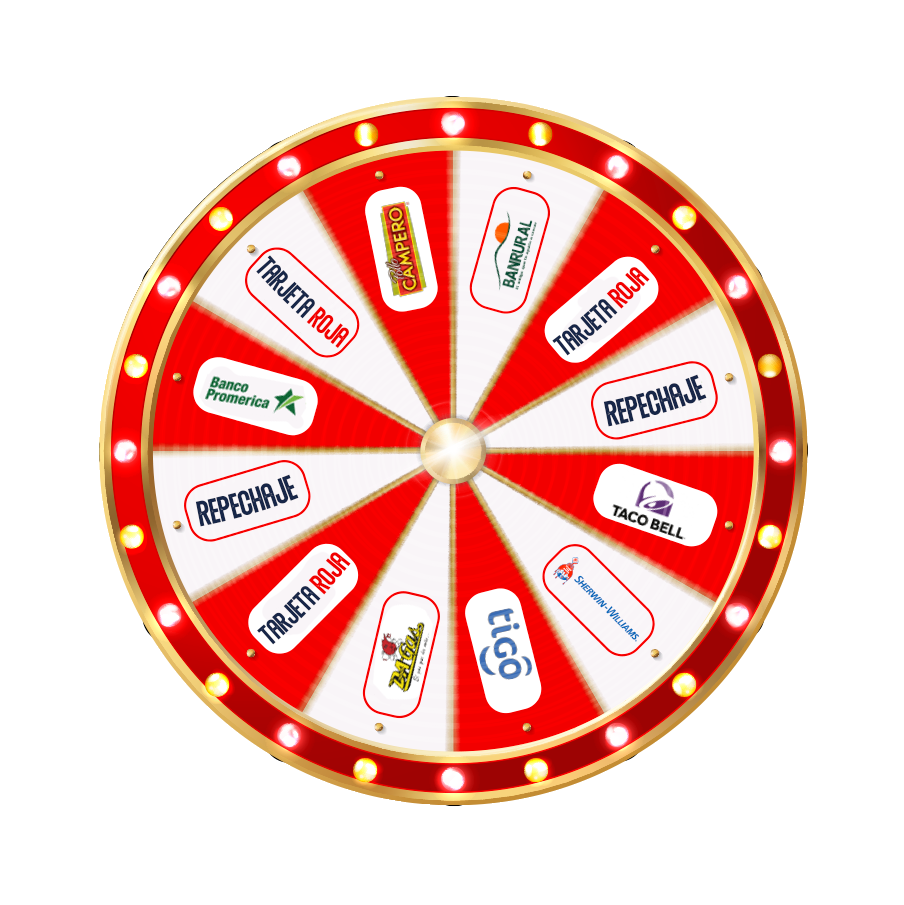
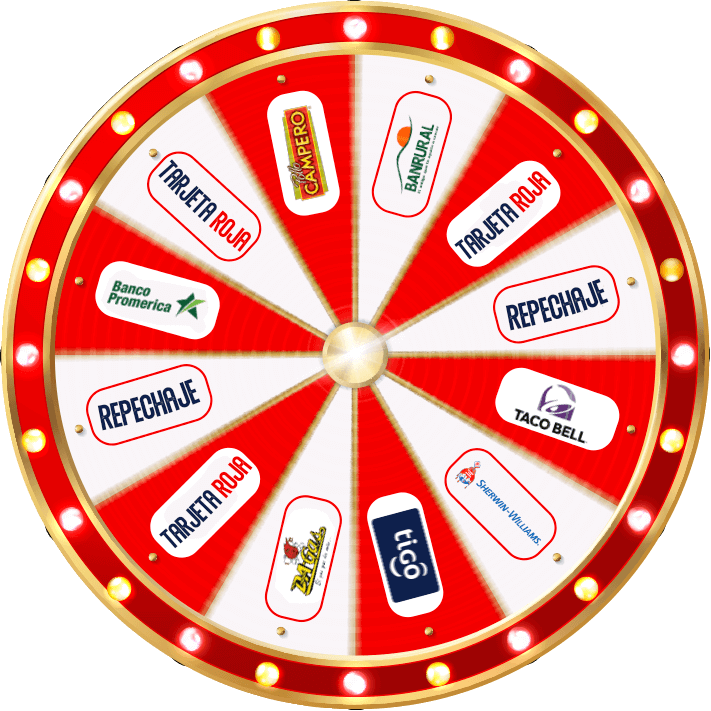
:hammer: added new rulete

diff --git a/src/app/components/home/home.component.html b/src/app/components/home/home.component.html
@@ -1,30 +1,30 @@
 <section class="content">
-    <div class="row ps-20 a-center j-center">
-        <div class="logo-section a-center">
-            <div class="logo-promo">
-                <img src="../../../assets/images/logo-login.png" alt="">
-            </div>
-            <a [routerLink]="['/registro']" class="btn-1"> Regístrate</a>
-        </div>
-        <div class="ruleta-premios">
-            <div class="ruleta-glow">
-                <img class="ruleta-home" src="../../../assets/images/ruleta-login.png" alt="">
-                <img class="glow-ruleta-home" src="../../../assets/images/luces.png" alt="">
-            </div>
-        </div>
-        <div class="logos-patro-container">
-            <div class="logos-inicio">
-                <owl-carousel-o [options]="customOptions">
-                    <ng-template carouselSlide><img src="../../../assets/images/logos/campero.jpg" alt=""></ng-template>  
-                    <ng-template carouselSlide><img src="../../../assets/images/logos/da-gas.jpg" alt=""></ng-template>  
-                    <ng-template carouselSlide><img src="../../../assets/images/logos/tigo.jpg" alt=""></ng-template>  
-                    <ng-template carouselSlide><img src="../../../assets/images/logos/banrural.jpg" alt=""></ng-template>  
-                    <ng-template carouselSlide><img src="../../../assets/images/logos/taco-bell.jpg" alt=""></ng-template>  
-                    <ng-template carouselSlide><img src="../../../assets/images/logos/sherwin.jpg" alt=""></ng-template>  
-                    <ng-template carouselSlide><img src="../../../assets/images/logos/promerica.jpg" alt=""></ng-template>  
-                  </owl-carousel-o>
-            </div>
-        </div>
+  <div class="row ps-20 a-center j-center">
+    <div class="logo-section a-center">
+      <div class="logo-promo">
+        <img src="../../../assets/images/logo-login.png" alt="">
+      </div>
+      <a [routerLink]="['/registro']" class="btn-1"> Regístrate</a>
     </div>
-    
+    <div class="ruleta-premios">
+      <div class="ruleta-glow">
+        <img class="ruleta-home" src="../../../assets/images/ruleta-login.png" alt="">
+        <img class="glow-ruleta-home" src="../../../assets/images/luces.png" alt="">
+      </div>
+    </div>
+    <div class="logos-patro-container">
+      <div class="logos-inicio">
+        <owl-carousel-o [options]="customOptions">
+          <ng-template carouselSlide><img src="../../../assets/images/logos/campero.jpg" alt=""></ng-template>
+          <ng-template carouselSlide><img src="../../../assets/images/logos/da-gas.jpg" alt=""></ng-template>
+          <ng-template carouselSlide><img src="../../../assets/images/logos/tigo.png" alt=""></ng-template>
+          <ng-template carouselSlide><img src="../../../assets/images/logos/banrural.jpg" alt=""></ng-template>
+          <ng-template carouselSlide><img src="../../../assets/images/logos/taco-bell.jpg" alt=""></ng-template>
+          <ng-template carouselSlide><img src="../../../assets/images/logos/sherwin.jpg" alt=""></ng-template>
+          <ng-template carouselSlide><img src="../../../assets/images/logos/promerica.jpg" alt=""></ng-template>
+        </owl-carousel-o>
+      </div>
+    </div>
+  </div>
+
 </section>

diff --git a/src/assets/css/styles.css b/src/assets/css/styles.css
@@ -638,7 +638,7 @@ input:-webkit-autofill {
 
 .arrow {
   position: absolute;
-  top: 9%;
+  top: 0;
   width: 8%;
   z-index: 3;
 }
@@ -652,12 +652,13 @@ input:-webkit-autofill {
 }
 
 .ruleta {
-  width: 100%;
+  width: 80%;
   z-index: 1;
 }
 
 .ruleta.animate {
   animation: spin 3000ms;
+  width: 80%;
   animation-iteration-count: infinite;
   animation-timing-function: linear;
 }
@@ -671,13 +672,19 @@ input:-webkit-autofill {
 
 .ruleta-luces.animate {
   animation: flickerAnimation 1000ms, spin 3000ms;
+  width: 100%;
   animation-iteration-count: infinite;
   animation-timing-function: linear;
 }
 
-.ruleta.animate_fast,
-.ruleta-luces.animate_fast {
+.ruleta.animate_fast {
   animation: spin 5000ms;
+  animation-iteration-count: infinite;
+  animation-timing-function: linear;
+}
+.ruleta-luces.animate_fast {
+  width: 100%;
+  animation: flickerAnimation 2000ms, spin 5000ms;
   animation-iteration-count: infinite;
   animation-timing-function: linear;
 }
